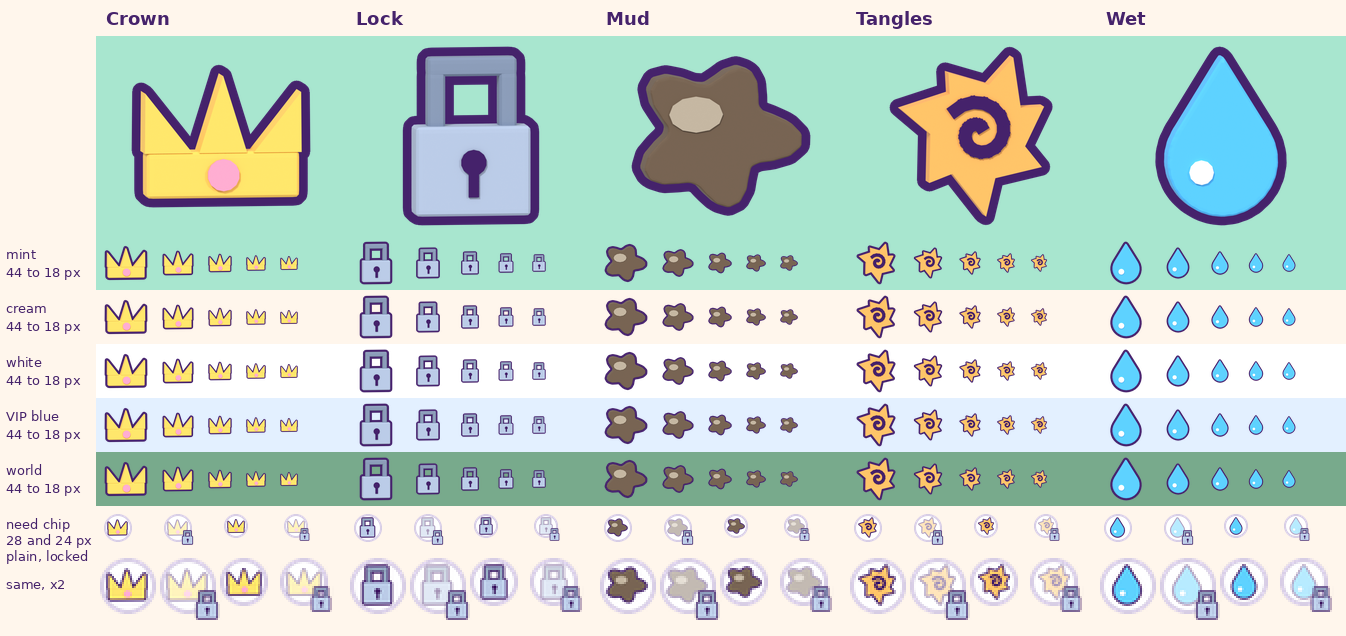
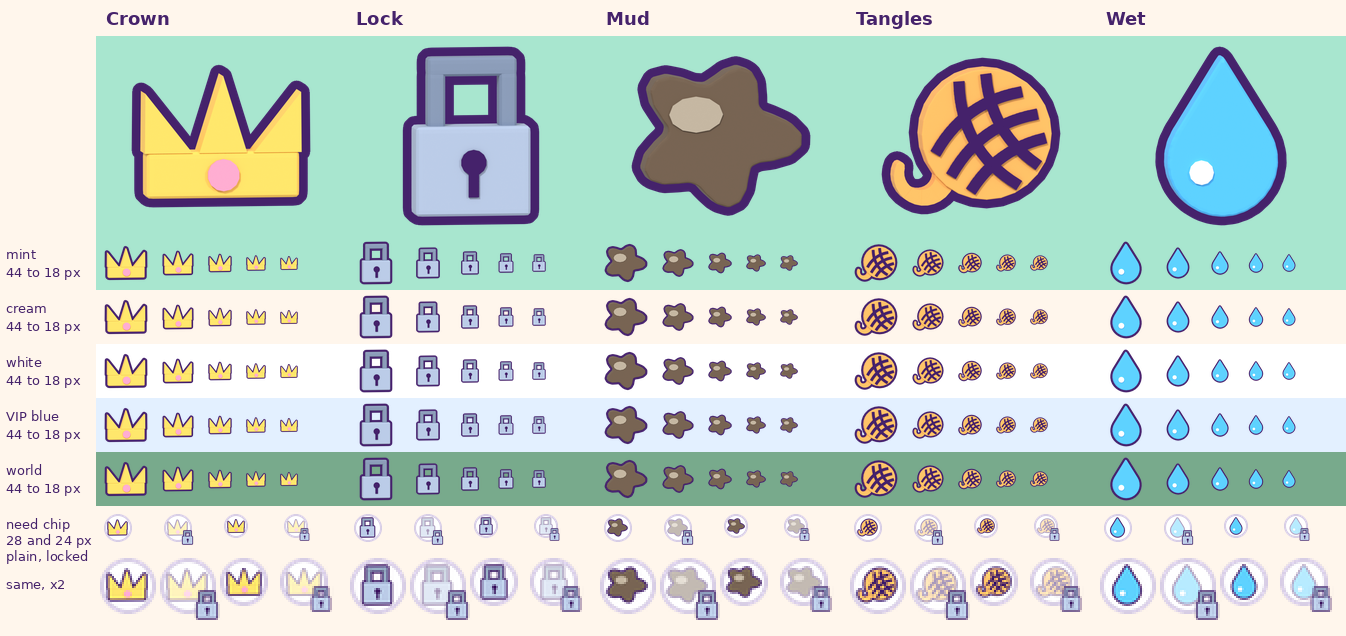
Tangles picture: a round ball of matted fur
Review-QA: the spiky clump read as a star or a sun, close to Sparkle. Now a
round ball with crossing ink strands and one loose strand trailing out on
the left, clear of the lock badge.

Claude-Session: https://claude.ai/code/session_01DW2up3E6M21fYJtCcCtEdr

diff --git a/assets/clean-a-cat/blender/hud_icons.py b/assets/clean-a-cat/blender/hud_icons.py
@@ -380,26 +380,39 @@ def mud(mat):
 
 
 def tangles(mat):
-    """The Tangles need: one of the cat's own tangles (dirt.py: a spiky clump of fur). Seven tufts of uneven length
-    and spacing, all swept the same way, so it is matted fur and not a sun or a cog, and a thick swirl sits on it
-    in the outline's ink."""
+    """The Tangles need: a round ball of matted fur. Strands cross it in the outline's ink, three bowed one way and
+    two the other, like a ball of wool, and one loose strand trails out low on the left, where the lock badge (low
+    on the right) cannot cover it. Round on purpose: a spiky clump read as a star or a sun, too near Sparkle."""
     b, k = Builder(), Builder()
-    tufts = ((8, 1.3), (52, 1.52), (104, 1.24), (150, 1.5), (212, 1.3), (262, 1.56), (318, 1.34))   # degrees, tip
-    pts = []
-    for i, (deg, tip) in enumerate(tufts):
-        before = (deg + tufts[i - 1][0] - (360 if i == 0 else 0)) / 2                    # the dip before this tuft
-        pts.append((0.9 * math.cos(math.radians(before)), 0.9 * math.sin(math.radians(before))))
-        pts.append((tip * math.cos(math.radians(deg + 13)), tip * math.sin(math.radians(deg + 13))))
-    b.prism((0, 0, 0), pts, 0.5, "fur_orange", rot=X)
-    n = 22                                                                               # the swirl: one and a
-    for i in range(n):                                                                   # quarter turns, short pieces
-        t0 = 0.9 + 2.5 * math.pi * i / n
-        t1 = 0.9 + 2.5 * math.pi * (i + 1) / n
-        r0, r1 = 0.1 + 0.52 * i / n, 0.1 + 0.52 * (i + 1) / n
-        x0, z0, x1, z1 = r0 * math.cos(t0), r0 * math.sin(t0), r1 * math.cos(t1), r1 * math.sin(t1)
-        ang = math.atan2(x1 - x0, z1 - z0)
-        k.box(((x0 + x1) / 2, -0.27, (z0 + z1) / 2), (0.24, 0.04, math.hypot(x1 - x0, z1 - z0) + 0.12), "coat_inky",
-              bevel=False, rot=(ang, "Y"))
+    b.cyl((0, 0, 0), 1.0, 0.5, "fur_orange", segments=28, rot=X)
+    for si, (deg, bulge, offsets) in enumerate(((35, 0.3, (-0.72, -0.3, 0.12)), (120, 0.3, (-0.55, -0.08)))):
+        ux, uz = math.cos(math.radians(deg)), math.sin(math.radians(deg))               # along the strand
+        for off in offsets:
+            n, pts = 18, []
+            for i in range(n + 1):
+                t = -1 + 2 * i / n
+                w = off + bulge * (1 - t * t)                                            # bowed sideways
+                pts.append((t * ux - w * uz, t * uz + w * ux))
+            for (x0, z0), (x1, z1) in zip(pts, pts[1:]):
+                mx, mz = (x0 + x1) / 2, (z0 + z1) / 2
+                if math.hypot(mx, mz) > 0.85:                                            # cut off at the ball's edge
+                    continue
+                k.box((mx, -0.27 - 0.006 * si, mz), (0.17, 0.04, math.hypot(x1 - x0, z1 - z0) + 0.08), "coat_inky",
+                      bevel=False, rot=(math.atan2(x1 - x0, z1 - z0), "Y"))
+    cx, cz, mid, parts = -0.98, -0.6, 0.36, 6                                            # the loose strand: a hook
+    for p in range(parts):                                                               # in short simple pieces
+        f0, f1 = p / parts, (p + 1) / parts
+        am = math.radians(15 - 215 * (f0 + f1) / 2)
+        ox, oz = cx + mid * math.cos(am), cz + mid * math.sin(am)
+        outer, inner = [], []
+        for j in range(4):
+            f = f0 + (f1 - f0) * j / 3
+            t, w = math.radians(15 - 215 * f), 0.17 - 0.1 * f                            # it tapers
+            outer.append((cx + (mid + w) * math.cos(t) - ox, cz + (mid + w) * math.sin(t) - oz))
+            inner.append((cx + (mid - w) * math.cos(t) - ox, cz + (mid - w) * math.sin(t) - oz))
+        b.prism((ox, 0.002 * (p % 2), oz), inner + outer[::-1], 0.4, "fur_orange", rot=X)
+    end = math.radians(15 - 215)
+    b.cyl((cx + mid * math.cos(end), 0.004, cz + mid * math.sin(end)), 0.07, 0.4, "fur_orange", segments=10, rot=X)
     return _fin(b, "Tangles", mat, ink=k)
 
 

diff --git a/docs/art/style-guide.md b/docs/art/style-guide.md
@@ -261,7 +261,7 @@ Six pictures for the HUD's buttons, drawn apart from the game models because a b
 - `Coins` is not rendered. The owner chose his library's own coin picture (`CatCafe_Icon_Coins.png`: a gold stack with a $) over the paw coin first drafted here, whose paw was done badly, then asked for it to be re-outlined to match the set. `hud_coin.py <library coin png> <out png>` (plain Python with Pillow and numpy) does only that: the library's brown 10 px outline becomes the `#45226B` ink at 13 px and the coin inside it is not touched. The generator has no coin, so a rebuild cannot bring the paw coin back.
 - `Settings`: a gear with eight teeth in soft blue grey. `Index`: a purple book with a cream cat's face on the cover and a pink bookmark. `Tools`: a pink toolbox with a deeper pink lid open and a tall cream carry handle on it, a sky blue scrub brush standing in it with its white bristles to the front, a mint soap bottle with a pump beside it, a gold latch and a white paw on the front. Shut, it could pass for a lunchbox at 48 px (Review-QA, #234), so #242 opened it; a phone draws the button at about 36 pt, where a brush lying inside the box blurred into it, so #247 stood the brush up to break the outline and made the carry handle tall enough to show above the open lid (without the handle it stops being a toolbox). The rules this gave: check HUD pictures at 36 px, let the thing that names the button break the silhouette, and never trade away the one cue that names the object. The first draft was the game's scrub brush with soap bubbles; the owner on 2026-11-24: the bubbles "makes no sense" and "a toolbox would be better". `Helper`: a member of the human staff, head and shoulders in the spa uniform (see `staff.py` below). The first draft was a helper kitten's head; the owner on 2026-11-24 leaned to human staff for helpers and the kitten staying as the mascot. `Build`: a blue hammer with a wooden handle and a white paw.
 - Ten small pictures in the same style (#251), for the names `Icons.luau` otherwise draws as a system emoji, which looks different on every phone: `Camera` (sky blue, a cream lens ring), `Paw` (deep pink, a wide pad and four toes), `Heart` (deep pink), `Gift` (a mint box, pink ribbon and bow), `Music` (two joined purple notes), `Speaker` (the bath water's blue with two thick waves; pale sky blue faded on mint and on the world's green at 36 px), `Shake` (a purple phone leaning over with motion marks), `Sparkle` (three yellow four-point stars), `Dice` (a cream die with ink pips) and `Check` (a green badge with a white tick). They are used smaller than the buttons, in rows and badges, so each is one plain shape and is checked down to 28 px. The paw's toes stand apart from the pad on purpose: toes that touch it make one blob with round ears.
-- Five tiny pictures (#255) for the queue window: `Crown` (a VIP: yellow, three points, one pink gem), `Lock` (a need whose station is not built: a blue grey padlock, ink keyhole), and the needs `Mud` (a brown splat with one pale shine), `Tangles` (one of the cat's own tangles: a ginger clump of seven uneven tufts swept one way with an ink swirl) and `Wet` (a water drop in the bath's blue). A need draws at about 18 to 21 px on a phone inside a round white chip, and the lock badge at about 13 to 16 px, so these follow tighter rules than the ten above: one flat shape seen almost straight on, one colour that stands off white, at most one mark on it, and a 24 px outline at 512 (about one pixel of ink at 20 px). Checked at 44, 32, 24, 20 and 18 px on mint, cream, white, the VIP card's blue and the world's green, and in the chip, plain and locked. Crown, Lock, Mud and Wet hold at 18 px. Tangles holds at 20 px; at 18 px its swirl closes to a dot and it is told apart by colour and its spiky edge. Tufts set evenly round a disc read as a sun or a cog, and three tufts read as a speech bubble.
+- Five tiny pictures (#255) for the queue window: `Crown` (a VIP: yellow, three points, one pink gem), `Lock` (a need whose station is not built: a blue grey padlock, ink keyhole), and the needs `Mud` (a brown splat with one pale shine), `Tangles` (a round ball of matted ginger fur: ink strands cross it, three one way and two the other, and one loose strand trails out low on the left, clear of the lock badge) and `Wet` (a water drop in the bath's blue). A need draws at about 18 to 21 px on a phone inside a round white chip, and the lock badge at about 13 to 16 px, so these follow tighter rules than the ten above: one flat shape seen almost straight on, one colour that stands off white, at most one mark on it, and a 24 px outline at 512 (about one pixel of ink at 20 px). Checked at 44, 32, 24, 20 and 18 px on mint, cream, white, the VIP card's blue and the world's green, and in the chip, plain and locked. Crown, Lock, Mud and Wet hold at 18 px. Tangles holds at 20 px; at 18 px its strands close to a hatch and it is told apart by colour, its round edge and the loose strand. A tangle drawn as the cat's own spiky clump read as a star or a sun, too near `Sparkle`, and two strands each way on an orange ball read as a basketball.
 - The human staff are a draft for pictures only, in `staff.py`: no game model yet. One uniform says "works here" beside customers, who are the same blocky people in hats, scarves or berets (one in a mint tee): a mint smock (`spa_mint`) with short sleeves and cream cuffs, a cream collar with two points, a cream name badge with a pink paw, and never a hat. Two looks so far: Jo (`skin_light`, a ginger bob with a swept fringe and a bun) and Sam (`skin_deep`, short black curls). `ui_renders.py` renders `portrait_Staff_<Name>.png` on the stand-in figure, both at one scale with the shoulders running off the sides so the head is big in a round frame. The `Helper` button is a chunky head of the first look in the same colours, so button and portraits match. If staff become game models, their `HumanoidDescription` colours come from this table.
 - Nothing is uploaded by this script. The ui-designer keeps the six in `assets/clean-a-cat/ui/` and uploads are group owned.
 
